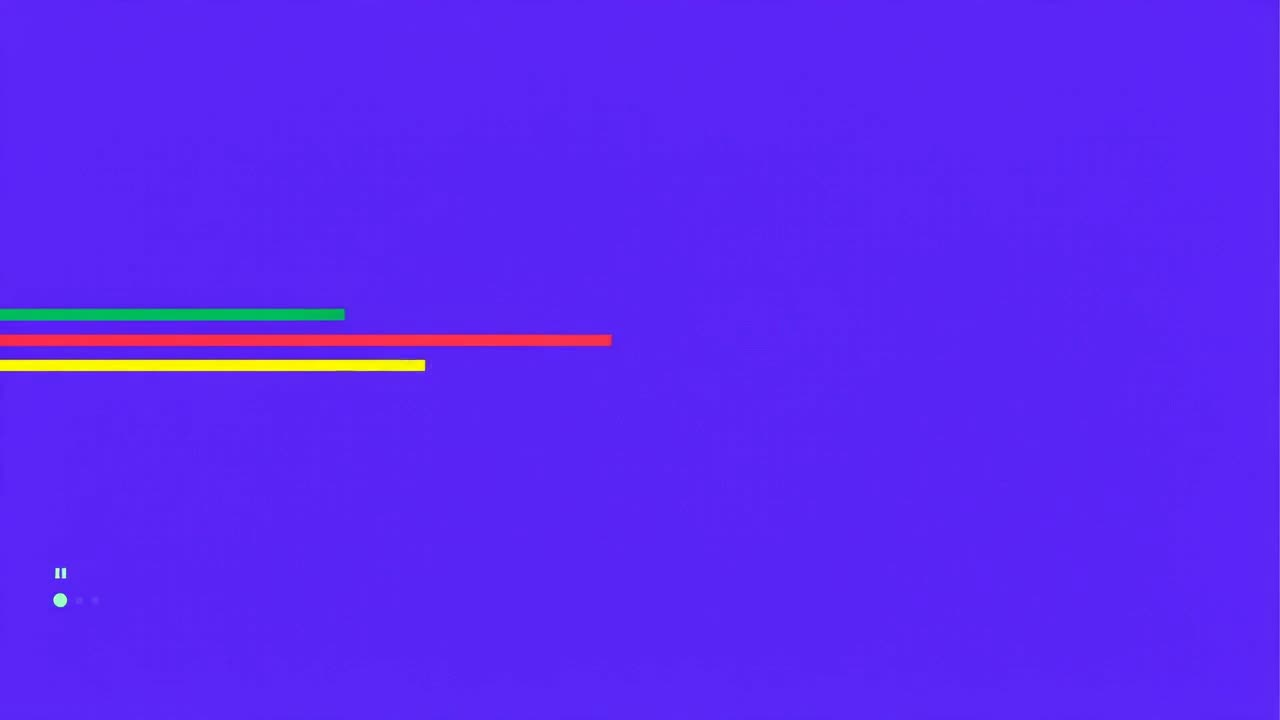
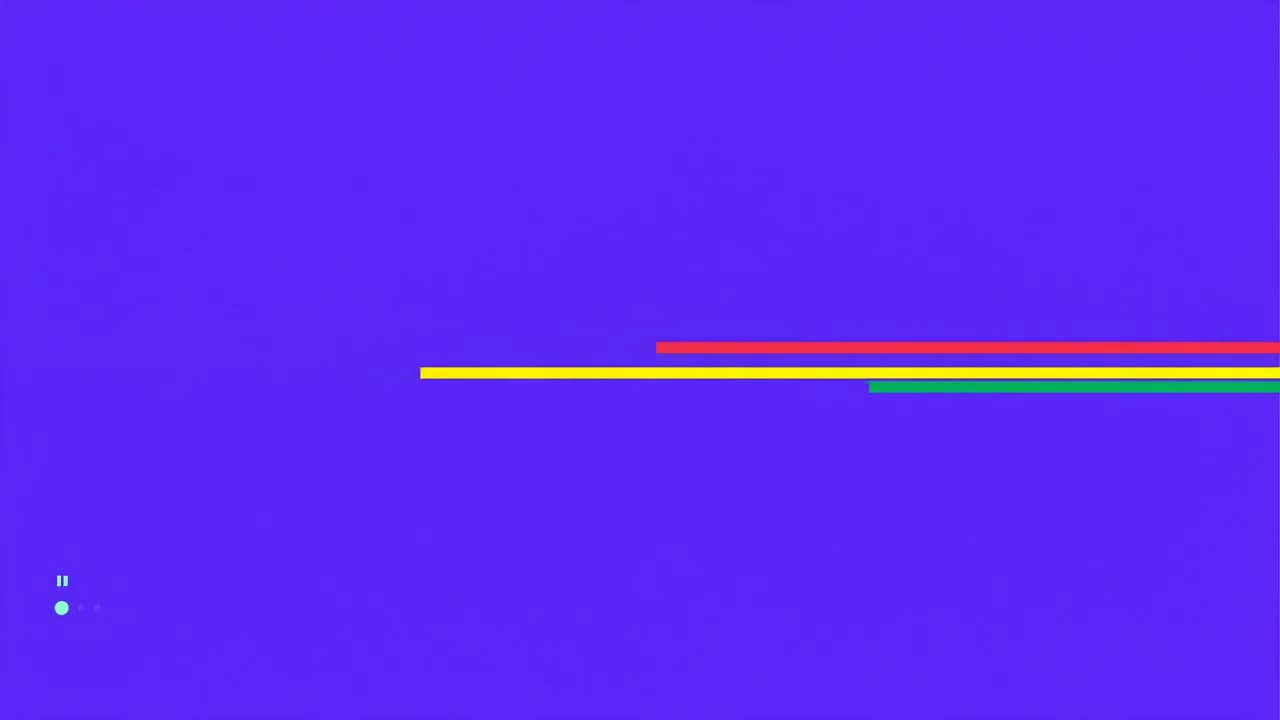
Home hero: quita velo oscuro, caja glass igual a rutas, tercer video
- Elimina la capa oscura (hp-hero__veil) sobre el video; ahora se ve a saturación completa.
- .hp-hero__copy adopta EXACTO el glass de las rutas (.hero--framed .hero__copy):
  rgba(255,255,255,.08), blur(16px) saturate(115%), borde rgba(255,255,255,.22).
- Reemplaza por el tercer video (0.75x, 16.04s). WebM 244 KB / MP4 410 KB / poster 13 KB.
- Cache-bust styles.css v23 -> v24.

Changed region(s): [[0.0, 0.4278, 1.0, 0.55], [0.0312, 0.7944, 0.0625, 0.8556]]

diff --git a/site/styles.css b/site/styles.css
@@ -625,19 +625,17 @@ body.menu-open { overflow: hidden; }
 .hp-hero .btn--ghost { color: #fff; box-shadow: inset 0 0 0 2px rgba(255,255,255,.4); }
 .hp-hero .btn--ghost:hover { background: #fff; color: var(--c-morado-deep); box-shadow: none; }
 
-/* Hero visual: video de fondo full-bleed + velo morado */
+/* Hero visual: video de fondo full-bleed (sin velo); caja glass igual a las rutas */
 .hp-hero { isolation: isolate; }
 .hp-hero__bg { position: absolute; inset: 0; z-index: 0; width: 100%; height: 100%; object-fit: cover; pointer-events: none; }
-.hp-hero__veil {
-  position: absolute; inset: 0; z-index: 1; pointer-events: none;
-  background: linear-gradient(180deg, rgba(33,5,57,.34) 0%, rgba(45,10,74,.22) 50%, rgba(97,38,255,.16) 100%);
-}
 .hp-hero__copy {
-  position: relative; align-self: center;
-  background: rgba(33, 5, 57, .30);
-  -webkit-backdrop-filter: blur(22px) saturate(118%); backdrop-filter: blur(22px) saturate(118%);
-  border: 1px solid rgba(255,255,255,.20); box-shadow: var(--shadow-md);
-  padding: clamp(28px, 3.2vw, 46px);
+  position: relative;
+  background: rgba(255,255,255,.08);
+  -webkit-backdrop-filter: blur(16px) saturate(115%);
+  backdrop-filter: blur(16px) saturate(115%);
+  border: 1px solid rgba(255,255,255,.22);
+  box-shadow: var(--shadow-md);
+  padding: clamp(28px, 3.2vw, 48px);
 }
 
 /* ===================== 2 · ¿Qué es Valor Pyme? (blanco) ===================== */

diff --git a/site/index.html b/site/index.html
@@ -13,7 +13,7 @@
 <link rel="icon" href="assets/logos/isotipo-dark.svg" type="image/svg+xml">
 <link rel="preconnect" href="https://fonts.googleapis.com">
 <link rel="preconnect" href="https://fonts.gstatic.com" crossorigin>
-<link rel="stylesheet" href="styles.css?v=23">
+<link rel="stylesheet" href="styles.css?v=24">
 
 <!-- JSON-LD: Organization -->
 <script type="application/ld+json">
@@ -116,7 +116,6 @@
     <source src="assets/motion/hero-bg.webm" type="video/webm">
     <source src="assets/motion/hero-bg.mp4" type="video/mp4">
   </video>
-  <div class="hp-hero__veil" aria-hidden="true"></div>
   <div class="container">
     <div class="hp-hero__grid">
       <div class="hp-hero__copy">

diff --git a/site/contacto.html b/site/contacto.html
@@ -13,7 +13,7 @@
 <link rel="icon" href="assets/logos/isotipo-dark.svg" type="image/svg+xml">
 <link rel="preconnect" href="https://fonts.googleapis.com">
 <link rel="preconnect" href="https://fonts.gstatic.com" crossorigin>
-<link rel="stylesheet" href="styles.css?v=23">
+<link rel="stylesheet" href="styles.css?v=24">
 
 <!-- JSON-LD: FAQPage (respuestas PROVISIONALES — pendiente validación del cliente) -->
 <script type="application/ld+json">

diff --git a/site/ruta-capital.html b/site/ruta-capital.html
@@ -12,7 +12,7 @@
 <link rel="icon" href="assets/logos/isotipo-dark.svg" type="image/svg+xml">
 <link rel="preconnect" href="https://fonts.googleapis.com">
 <link rel="preconnect" href="https://fonts.gstatic.com" crossorigin>
-<link rel="stylesheet" href="styles.css?v=23">
+<link rel="stylesheet" href="styles.css?v=24">
 </head>
 <body data-ruta="capital">
 

diff --git a/site/ruta-digitalizacion.html b/site/ruta-digitalizacion.html
@@ -12,7 +12,7 @@
 <link rel="icon" href="assets/logos/isotipo-dark.svg" type="image/svg+xml">
 <link rel="preconnect" href="https://fonts.googleapis.com">
 <link rel="preconnect" href="https://fonts.gstatic.com" crossorigin>
-<link rel="stylesheet" href="styles.css?v=23">
+<link rel="stylesheet" href="styles.css?v=24">
 </head>
 <body data-ruta="digitalizacion">
 

diff --git a/site/ruta-mercado.html b/site/ruta-mercado.html
@@ -12,7 +12,7 @@
 <link rel="icon" href="assets/logos/isotipo-dark.svg" type="image/svg+xml">
 <link rel="preconnect" href="https://fonts.googleapis.com">
 <link rel="preconnect" href="https://fonts.gstatic.com" crossorigin>
-<link rel="stylesheet" href="styles.css?v=23">
+<link rel="stylesheet" href="styles.css?v=24">
 </head>
 <body data-ruta="mercado">
 

diff --git a/site/ruta-talento.html b/site/ruta-talento.html
@@ -12,7 +12,7 @@
 <link rel="icon" href="assets/logos/isotipo-dark.svg" type="image/svg+xml">
 <link rel="preconnect" href="https://fonts.googleapis.com">
 <link rel="preconnect" href="https://fonts.gstatic.com" crossorigin>
-<link rel="stylesheet" href="styles.css?v=23">
+<link rel="stylesheet" href="styles.css?v=24">
 </head>
 <body data-ruta="talento">
 

diff --git a/site/rutas.html b/site/rutas.html
@@ -12,7 +12,7 @@
 <link rel="icon" href="assets/logos/isotipo-dark.svg" type="image/svg+xml">
 <link rel="preconnect" href="https://fonts.googleapis.com">
 <link rel="preconnect" href="https://fonts.gstatic.com" crossorigin>
-<link rel="stylesheet" href="styles.css?v=23">
+<link rel="stylesheet" href="styles.css?v=24">
 </head>
 <body data-ruta="">
 